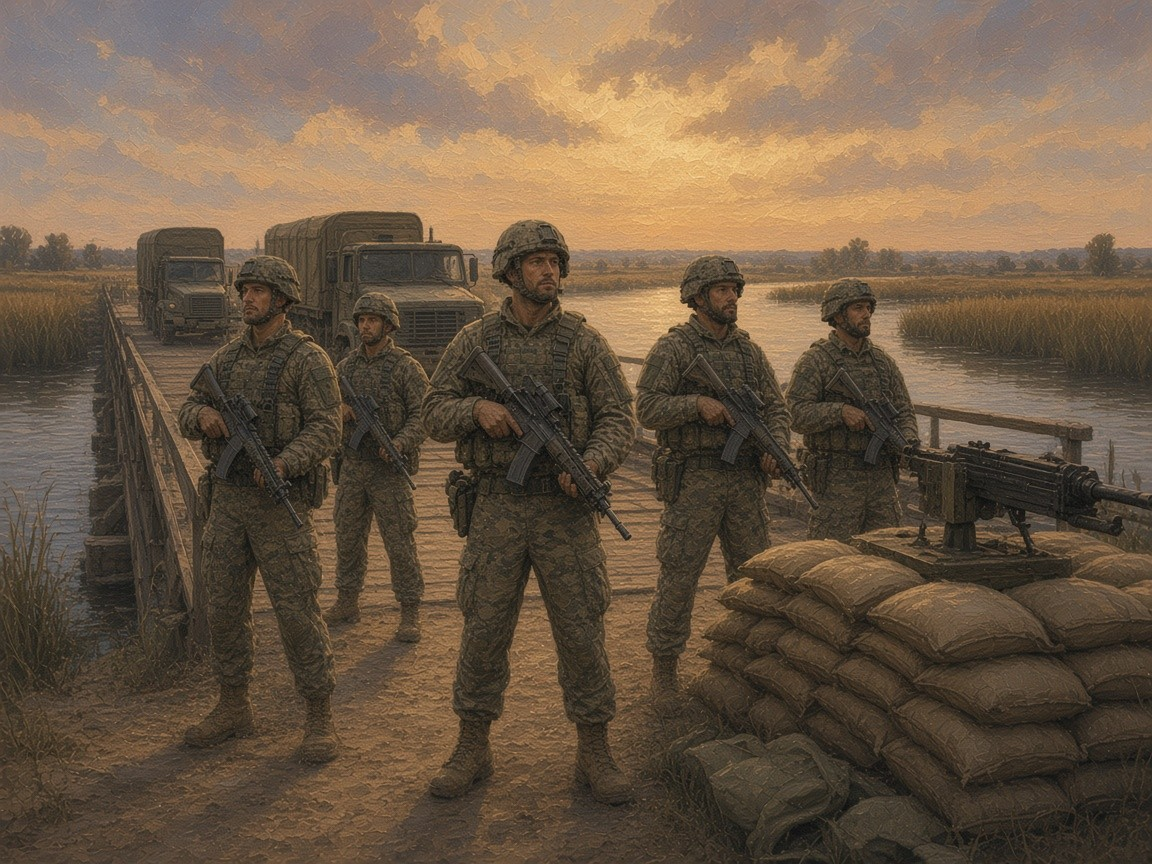
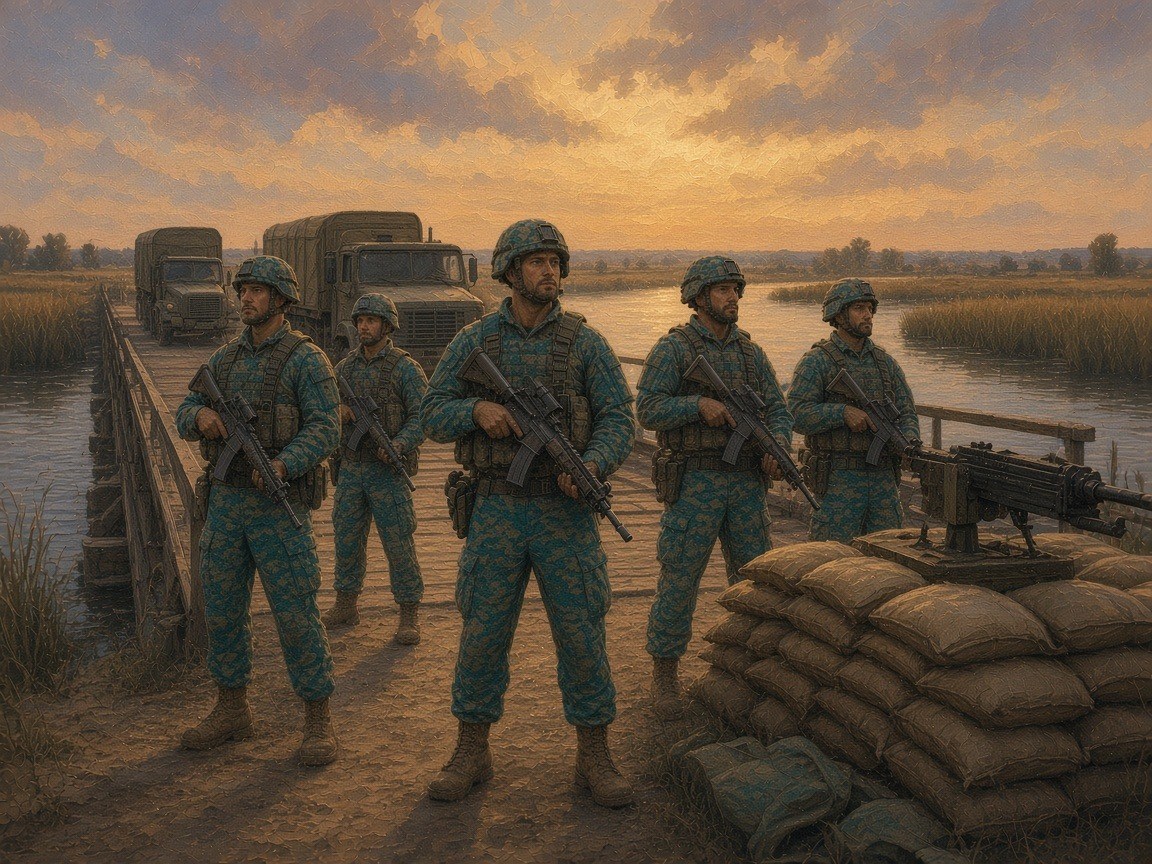
art: neue Motive Routenwache (Sahr-Petrol) und Ruderpanzer (nur Ausrüstungsteil)
GenerateImage im Ölstil der Sahr-Karten, 1152×864, ohne Text; Vorderseiten
alpha40 neu gerendert, Manifest aktualisiert, Cache alpha40n.

diff --git a/scripts/test_graphics.js b/scripts/test_graphics.js
@@ -33,7 +33,7 @@ for(const r of records.filter(r=>r.ready && r.type!=='Token')){
 const unfinished=records.find(r=>r.provenance==='missing_illustration');if(unfinished)assert(collection.get(unfinished.id).querySelector('.card-ph'));
 // The source model remains unchanged: presentation manifest alone retires a placeholder.
 assert.equal(c.art_status,'platzhalter');assert(!c.image);
-const html=fs.readFileSync(path.join(WEB,'index.html'),'utf8');assert(html.indexOf('js/data/card-faces.js')>html.indexOf('js/data/catalog.js'));assert(html.indexOf('js/data/card-faces.js')<html.indexOf('js/ui/app.js'));assert(html.includes('app.js?v=alpha40m'));
-assert(fs.readFileSync(path.join(WEB,'sw.js'),'utf8').includes('divcmd-alpha40m'));
+const html=fs.readFileSync(path.join(WEB,'index.html'),'utf8');assert(html.indexOf('js/data/card-faces.js')>html.indexOf('js/data/catalog.js'));assert(html.indexOf('js/data/card-faces.js')<html.indexOf('js/ui/app.js'));assert(html.includes('app.js?v=alpha40n'));
+assert(fs.readFileSync(path.join(WEB,'sw.js'),'utf8').includes('divcmd-alpha40n'));
 console.log('PASS graphics UI: ready-only routing; full-resolution hand/slot/inspect/collection/deckbuilder; hidden privacy; no unfinished artwork relabelled; rule records unchanged');
 h.dom.window.close();

diff --git a/scripts/test_table_stencil.js b/scripts/test_table_stencil.js
@@ -10,7 +10,7 @@ const tex = fs.readFileSync(path.join(WEB, 'assets/table/stencil-oil.webp'));
 assert(tex.slice(0, 4).toString() === 'RIFF' && tex.slice(8, 12).toString() === 'WEBP' && tex.length > 50000, 'Öltextur vorhanden');
 for (const m of css.matchAll(/url\(\.\.\/([^)]+)\)/g)) assert(fs.existsSync(path.join(WEB, m[1])), '404: ' + m[1]);
 assert(/table-stencil\.js\?v=/.test(fs.readFileSync(path.join(WEB, 'index.html'), 'utf8')));
-assert(/const CACHE = 'divcmd-alpha40m'/.test(fs.readFileSync(path.join(WEB, 'sw.js'), 'utf8')));
+assert(/const CACHE = 'divcmd-alpha40n'/.test(fs.readFileSync(path.join(WEB, 'sw.js'), 'utf8')));
 // z-Reihenfolge: Gemälde -3 < Licht -2 < Schablone -1 < Karten (auto)
 const z = sel => Number(css.match(new RegExp(sel.replace(/[.>]/g, m => '\\' + m) + ' \\{[^}]*z-index: (-?\\d+)'))[1]);
 assert(z('.cam-world > .ot-desk') < z('.cam-world > .ot-slotlight') && z('.cam-world > .ot-slotlight') < z('.cam-world > .ot-stencil') && z('.cam-world > .ot-stencil') < 0, 'Schichtfolge');

diff --git a/scripts/test_officer_table.js b/scripts/test_officer_table.js
@@ -62,7 +62,7 @@ assert(new Set(durs.match(/[\d.]+s/g)).size >= 5, 'mehrere unterschiedliche Anim
 assert(/at 74\.9% 35\.2%/.test(css), 'Licht vom Lampenstandort');
 const html = fs.readFileSync(path.join(WEB, 'index.html'), 'utf8');
 assert(/css\/officer-table\.css\?v=/.test(html), 'officer-table.css eingebunden');
-assert(/const CACHE = 'divcmd-alpha40m'/.test(fs.readFileSync(path.join(WEB, 'sw.js'), 'utf8')), 'SW-Cache angehoben');
+assert(/const CACHE = 'divcmd-alpha40n'/.test(fs.readFileSync(path.join(WEB, 'sw.js'), 'utf8')), 'SW-Cache angehoben');
 assert(/prefers-reduced-motion: reduce\)\s*\{[^}]*\.ot-glow[^}]*animation: none/.test(css), 'Media-Query stoppt Flackern');
 assert(/data-flicker="off"\] \.ot-glow, \.cam-viewport\[data-flicker="off"\] \.ot-glint/.test(css), 'JS-Flag stoppt Flackern');
 assert(/\.ot-desk \{\s*position: absolute; z-index: -3; pointer-events: none/.test(css) && /\.ot-desk > div \{[^}]*pointer-events: none/.test(css), 'Bild/Licht nie klickbar');

diff --git a/scripts/test_library_filters.js b/scripts/test_library_filters.js
@@ -115,8 +115,8 @@ lib._setRarityFilter('');
 lib.render();
 assert.equal(ids().length, all);
 
-assert(fs.readFileSync(path.join(WEB, 'sw.js'), 'utf8').includes('divcmd-alpha40m'));
-assert(html.includes('app.js?v=alpha40m'));
+assert(fs.readFileSync(path.join(WEB, 'sw.js'), 'utf8').includes('divcmd-alpha40n'));
+assert(html.includes('app.js?v=alpha40n'));
 assert(html.includes('id="lib-rarity"'));
 assert(html.includes('id="lib-tag-panel"'));
 

diff --git a/Division_Command/web/index.html b/Division_Command/web/index.html
@@ -791,7 +791,7 @@
   <script src="js/ui/table-stencil.js?v=sc4"></script>
   <script src="js/ui/table-camera.js?v=st1"></script>
   <script src="js/ui/end-screen.js?v=1"></script>
-  <script src="js/ui/app.js?v=alpha40m"></script>
+  <script src="js/ui/app.js?v=alpha40n"></script>
   <script src="js/ui/audio-feedback.js?v=1"></script>
   <script src="js/ui/audio-options.js?v=1"></script>
   <script src="js/ui/hand-drag.js?v=handzoom2"></script>

diff --git a/Division_Command/web/sw.js b/Division_Command/web/sw.js
@@ -1,4 +1,4 @@
-const CACHE = 'divcmd-alpha40m';
+const CACHE = 'divcmd-alpha40n';
 const ASSETS = [
   './',
   './index.html',

diff --git a/CHANGELOG.md b/CHANGELOG.md
@@ -10,6 +10,9 @@
 - **Realistischer Mischdeck-Generator** für Simulationen (`scripts/nation_pools/mixed_deck.js`): 30 Einheiten, 10 Ausrüstung, 8 Unterstützung, 12 Soforteinsätze, halb Pool, halb Starterdeck. Averon, Dargan und Ossaria liegen damit bei 48–51 %; die Werte unter 45 % aus t237 waren ein Artefakt des alten Testdecks.
 - **Caldris** im Mischdeck 57,7 → 53,7 %: 14 Poolkarten um eine Stufe schwächer (u. a. Panzerschild Caldris Schaden −2 → −1, Feldklinik 3 → 4 AP, Vollschutzweste +3 → +2 DEF). **Namar** Kaipanzerung 1 → 2 AP. Spannen: Starterdecks 47,1–53,5 %, Mischdecks 47,2–53,7 %. Details: `docs/balance/BALANCE_T238.md`.
 
+### Grafik
+- Neue Motive: **Routenwache** (Sahr) in Sahr-Petrol-Tarnung statt Oliv/Khaki; **Ruderpanzer** zeigt nur das Ausrüstungsteil (Ruder-Panzerkit) statt eines ganzen Fahrzeugs.
+
 ### Aufräumen
 - Spielordner versionsneutral: `Division_Command_0.5a/` → `Division_Command/` (alle Skripte, Tests, Editor- und Doku-Pfade angepasst).
 
